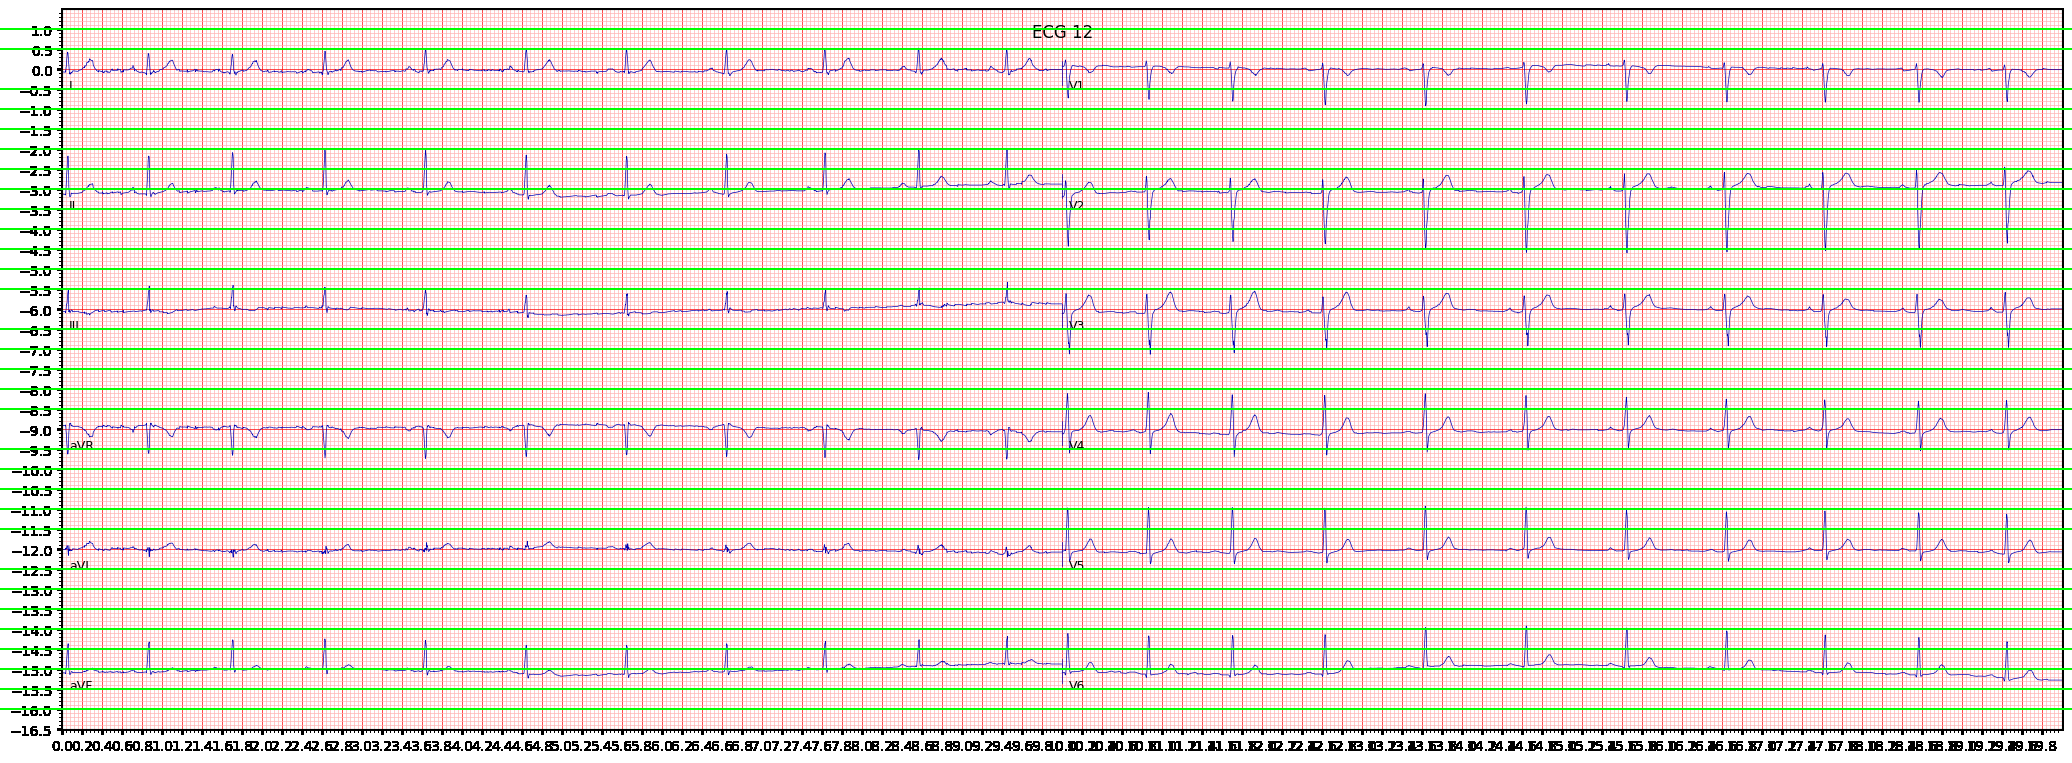
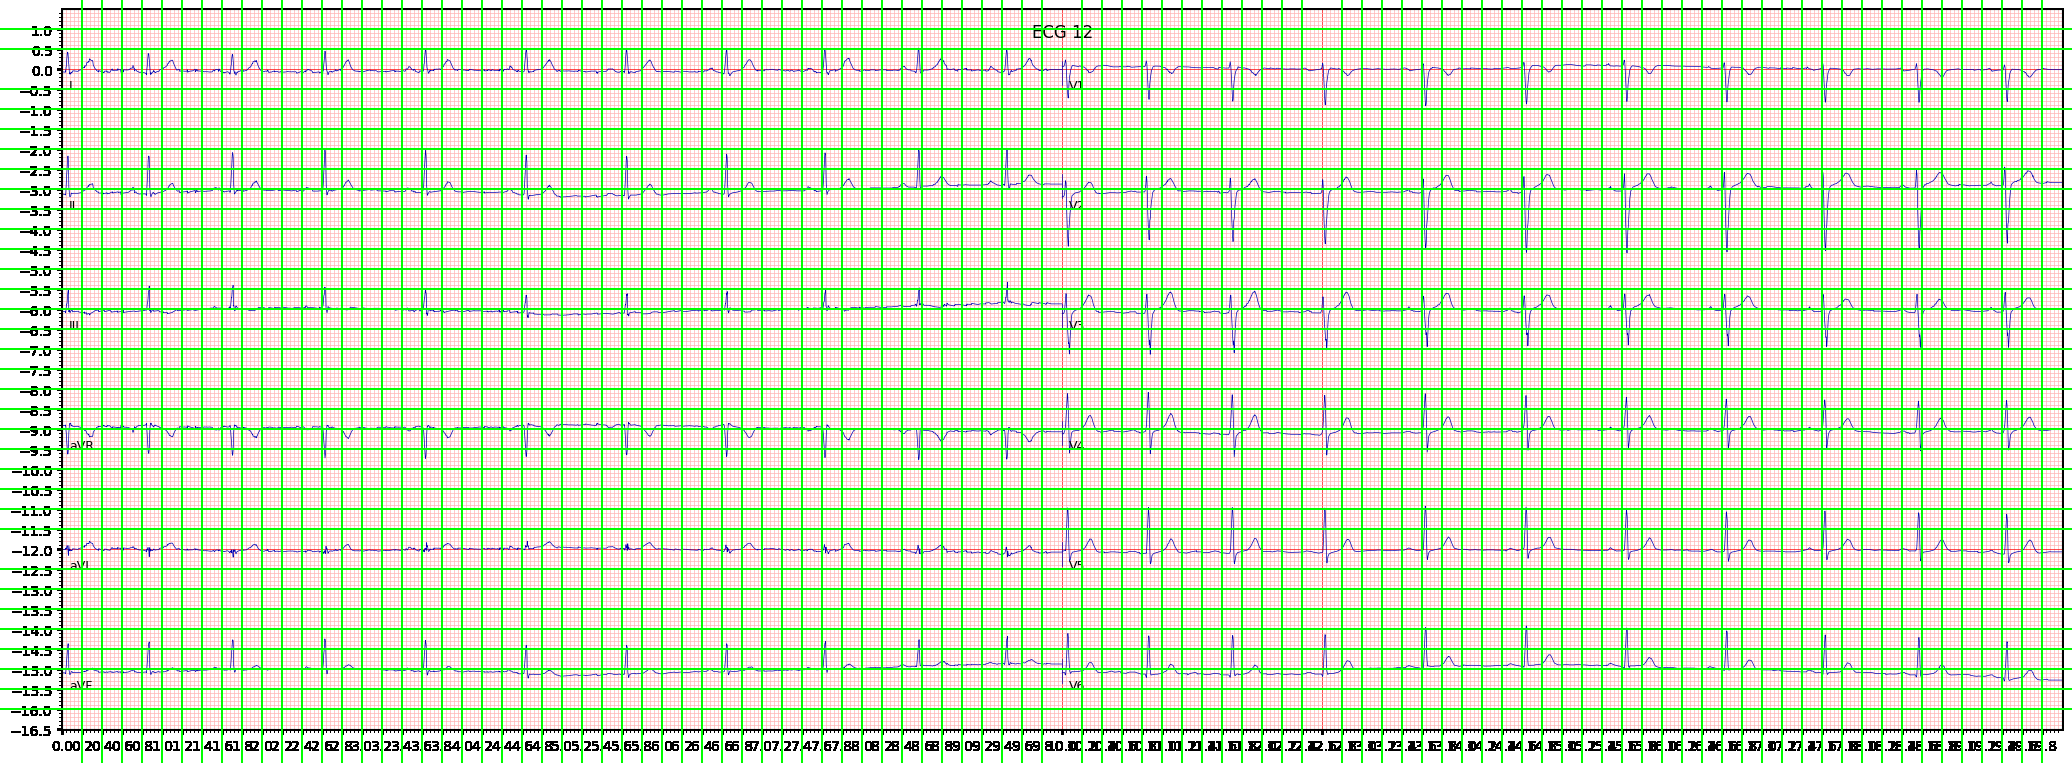
poprawa obliczania px na kratkę

Changed region(s): [[0.0309, 0.0, 0.9884, 1.0]]

diff --git a/src/main/java/org/example/ImageProcessor.java b/src/main/java/org/example/ImageProcessor.java
@@ -25,14 +25,14 @@ public class ImageProcessor {
     /**
      * Główna metoda przetwarzająca:
      *  - Wczytuje bajty PNG -> BufferedImage
+     *  - Wykryqwa ilość px na kratkę małą
      *  - Binaryzacja -> boolean[][] (+ warunek r<150... => false)
      *  - Usuwanie samotnych pikseli
      *  - Odcinanie lewego marginesu
-     *  - Szukanie 7 bloków białych (>=5% wysokości), pierwszy tniemy w 70%, ostatni w 30%, środkowe w 50%
+     *  - Szukanie 7 bloków białych w poziomie, żeby pociąć na 6 linii
      *  - Pionowa linia -> środek (width/2)
-     *  - Cięcie na 8×2 segmentów (lub fallback)
-     *  - Zapis debug_output.png z czerwoną siatką
-     *  - Zwraca listę obiektów CompressedBitmap (zamiast JSON String!)
+     *  - Cięcie na 8×2 segmentów (6x2 to EKG) i górny oraz dolny margines
+     *  - Zwraca listę obiektów CompressedBitmap
      */
     public List<CompressedBitmap> processImage(BufferedImage input) throws IOException {
         if (input == null) {
@@ -42,22 +42,21 @@ public class ImageProcessor {
         int origWidth = input.getWidth();
         int origHeight = input.getHeight();
 
-        // W metodzie processImage, przed binaryzacją (po sprawdzeniu input != null):
-
-// --- Wykrywanie czerwonych linii (85% pikseli) ---
+        // 1. Wykrywanie ilości px na kratkę małą (1/5 px na kratkę dużą)
         List<Integer> horizontalRedLines = new ArrayList<>();
         List<Integer> verticalRedLines = new ArrayList<>();
         int redThreshold = 200;   // Początkowy próg dla kanału R
         int greenBlueThreshold = 100; // Maksymalna wartość dla kanałów G i B
-        int requiredPercentage = 80; // Wymagany % czerwonych pikseli
+        int requiredPercentage = 70; // Wymagany % czerwonych pikseli
         int attempts = 0;
-        boolean linesDetected = false;
+        boolean vlinesDetected = false;
+        boolean hlinesDetected = false;
 
         do {
             horizontalRedLines.clear();
             verticalRedLines.clear();
 
-            // Wykrywanie poziomych linii (sprawdzaj każdy wiersz)
+            // Wykrywanie poziomych linii
             for (int y = 0; y < origHeight; y++) {
                 int redPixels = 0;
                 for (int x = 0; x < origWidth; x++) {
@@ -72,7 +71,7 @@ public class ImageProcessor {
                 }
             }
 
-            // Wykrywanie pionowych linii (sprawdzaj każdą kolumnę)
+            // Wykrywanie pionowych linii
             for (int x = 0; x < origWidth; x++) {
                 int redPixels = 0;
                 for (int y = 0; y < origHeight; y++) {
@@ -87,19 +86,27 @@ public class ImageProcessor {
                 }
             }
 
-            // Dostosuj próg czerwieni, aby liczba linii mieściła się w 30-40
-            if (horizontalRedLines.size() < 30) {
-                redThreshold = Math.max(0, redThreshold - 5); // Zmniejsz próg R
-            } else if (horizontalRedLines.size() > 40) {
-                redThreshold = Math.min(255, redThreshold + 5); // Zwiększ próg R
+            // Dostosowanie progu czerwieni, aby liczba linii mieściła się w zakresie
+            if (verticalRedLines.size() < 80) {
+                redThreshold = Math.max(0, redThreshold - 5);
+            } else if (verticalRedLines.size() > 130) {
+                redThreshold = Math.min(255, redThreshold + 5);
             } else {
-                linesDetected = true;
+                vlinesDetected = true;
+            }
+
+            if (horizontalRedLines.size() < 30) {
+                redThreshold = Math.max(0, redThreshold - 5);
+            } else if (horizontalRedLines.size() > 60) {
+                redThreshold = Math.min(255, redThreshold + 5);
+            } else {
+                hlinesDetected = true;
             }
 
             attempts++;
-        } while (!linesDetected && attempts < 20);
+        } while ((!vlinesDetected || !hlinesDetected) && attempts < 20 && !vlinesDetected);
 
-// Zaznacz linie na obrazie i zapisz
+        // Zaznacz linie na obrazie i zapisz
         BufferedImage linesImage = copyBufferedImage(input);
         Graphics2D g = linesImage.createGraphics();
         g.setColor(Color.GREEN);
@@ -114,17 +121,13 @@ public class ImageProcessor {
         g.dispose();
         ImageIO.write(linesImage, "png", new File("received-lines.png"));
 
-        // W metodzie processImage, po wykryciu linii i przed binaryzacją:
         int minHorizontalGap = calculateMinGap(horizontalRedLines);
         int minVerticalGap = calculateMinGap(verticalRedLines);
-
-        int bigPx = Math.max(minHorizontalGap, minVerticalGap);
-        if (bigPx <= 0) bigPx = 1; // Zabezpieczenie przed zerem
-        int smallPx = 1000000 * bigPx / 5;
-
+        if (minHorizontalGap <= 0) minHorizontalGap = 1000;
+        if (minVerticalGap <= 0) minVerticalGap = 1000;
+        int bigPx = Math.min(minHorizontalGap, minVerticalGap);
+        int smallPx = 1000000 * bigPx / 5; // razy 1M, żeby wysłać jako int
         System.out.println("Px na kratkę: " + (double)smallPx/1000000.0);
-
-// --- Koniec modyfikacji ---
 
         // 2. Binaryzacja + usuwanie samotnych pikseli
         boolean[][] matrix = new boolean[origHeight][origWidth];
@@ -170,7 +173,7 @@ public class ImageProcessor {
         // 5. Pionowa linia w samym środku
         int vLine = width / 2;
 
-        // 6. Tniemy na 8×2 (lub fallback)
+        // 6. Tniemy na 8×2
         List<CompressedBitmap> resultList;
         if (!fallback) {
             resultList = cutIntoSegments(matrix, hLines, vLine, smallPx);
@@ -186,7 +189,7 @@ public class ImageProcessor {
 
         return resultList;
     }
-    // -------------------------------------------------------------------------
+
     private boolean[][] removeLonelyPixels(boolean[][] matrix) {
         int h = matrix.length, w = matrix[0].length;
         boolean[][] result = new boolean[h][w];
@@ -245,8 +248,7 @@ public class ImageProcessor {
         return result;
     }
 
-    // -------------------------------------------------------------------------
-    // Znajdowanie 7 linii => 8 segmentów
+    // Znajdowanie 7 linii w poziomie - cięcie na 8 fragmentów (w tym 2 to marginesy)
     private List<Integer> find7HorizontalLines(boolean[][] matrix) {
         int h = matrix.length;
         int w = matrix[0].length;
@@ -255,7 +257,7 @@ public class ImageProcessor {
         List<WhiteBlock> blocks = null;
 
         // Zwiększamy minimumPer co 0.01, aż dokładnie 7 bloków zostanie wykrytych
-        while (minimumPer <= 1.0) { // górna granica – w razie czego
+        while (minimumPer <= 1.0) {
             double minBlockHeight = minimumPer * h;
             boolean[] isWhite = new boolean[h];
             for (int y = 0; y < h; y++) {
@@ -326,28 +328,20 @@ public class ImageProcessor {
         WhiteBlock(int s, int e) { start = s; end = e; }
     }
 
-
-    // -------------------------------------------------------------------------
-    // Tniemy 8×2 lub fallback
-    private List<CompressedBitmap> cutIntoSegments(boolean[][] matrix, List<Integer> hLines, int vLine, int smallPx) {        int h = matrix.length, w = matrix[0].length;
-
-        // Upewnij się, że hLines są posortowane
+    // Cięcie 8x2
+    private List<CompressedBitmap> cutIntoSegments(boolean[][] matrix, List<Integer> hLines, int vLine, int smallPx) {
+        int h = matrix.length, w = matrix[0].length;
         hLines.sort(Integer::compareTo);
-
-        // Budujemy granice poziome: [0, hLine1, hLine2, ..., hLine7, h]
         List<Integer> finalY = new ArrayList<>();
         finalY.add(0);
         finalY.addAll(hLines);
         finalY.add(h);
 
         int halfW = w / 2;
-        // Zbieramy segmenty osobno dla lewej i prawej kolumny
         List<boolean[][]> leftSubMatrices = new ArrayList<>();
         List<boolean[][]> rightSubMatrices = new ArrayList<>();
 
-        // Przetwarzamy tylko segmenty odpowiadające głównym wykresom EKG:
-        // pomijamy pierwszy segment (od 0 do hLine1) oraz ostatni (od hLine7 do h)
-        for (int i = 1; i < finalY.size() - 2; i++) {  // przy finalY.size()==9 => i = 1..6 (6 segmentów pionowo)
+        for (int i = 1; i < finalY.size() - 2; i++) {
             int y1 = finalY.get(i);
             int y2 = finalY.get(i + 1);
             int segH = y2 - y1;
@@ -363,7 +357,7 @@ public class ImageProcessor {
             rightSubMatrices.add(rightSub);
         }
 
-        // Łączymy segmenty – najpierw lewa kolumna (I, II, III, aVR, aVL, aVF), potem prawa (V1, V2, V3, V4, V5, V6)
+        // Najpierw lewa kolumna (I, II, III, aVR, aVL, aVF), potem prawa (V1, V2, V3, V4, V5, V6)
         List<boolean[][]> subMatrices = new ArrayList<>();
         subMatrices.addAll(leftSubMatrices);
         subMatrices.addAll(rightSubMatrices);
@@ -372,7 +366,7 @@ public class ImageProcessor {
         int minH = subMatrices.stream().mapToInt(m -> m.length).min().orElse(0);
         int minW = subMatrices.stream().mapToInt(m -> m[0].length).min().orElse(0);
 
-        // Przycinamy każdy segment do (minH x minW), a następnie usuwamy 5% z lewej i prawej (ze względu na artefakty)
+        // Przycinamy każdy segment do (minH x minW), a następnie usuwamy 5% z lewej i prawej
         List<CompressedBitmap> list = new ArrayList<>();
         for (boolean[][] sub : subMatrices) {
             boolean[][] trimmed = trimToSize(sub, minH, minW);
@@ -391,13 +385,11 @@ public class ImageProcessor {
 
     private List<CompressedBitmap> cutEqually(boolean[][] matrix, int smallPx) {
         int h = matrix.length, w = matrix[0].length;
-        int rowH = h / 8;  // oryginalny podział na 8 rzędów
+        int rowH = h / 8;
         int colW = w / 2;
-        // Zbieramy segmenty oddzielnie dla lewej i prawej kolumny
         List<boolean[][]> leftSubMatrices = new ArrayList<>();
         List<boolean[][]> rightSubMatrices = new ArrayList<>();
 
-        // Pomijamy pierwszy (row = 0) i ostatni (row = 7) rząd – pozostają 6 rzędów (główne wykresy)
         for (int row = 1; row < 7; row++) {
             int y1 = row * rowH;
             int y2 = (row + 1) * rowH;
@@ -414,12 +406,10 @@ public class ImageProcessor {
             rightSubMatrices.add(rightSub);
         }
 
-        // Łączymy – najpierw segmenty z lewej kolumny, potem te z prawej
         List<boolean[][]> subMatrices = new ArrayList<>();
         subMatrices.addAll(leftSubMatrices);
         subMatrices.addAll(rightSubMatrices);
 
-        // Wyznaczamy minimalne wymiary spośród 12 głównych wykresów EKG
         int minH = subMatrices.stream().mapToInt(m -> m.length).min().orElse(0);
         int minW = subMatrices.stream().mapToInt(m -> m[0].length).min().orElse(0);
 
@@ -439,8 +429,6 @@ public class ImageProcessor {
         return list;
     }
 
-    // -------------------------------------------------------------------------
-    // Kompresja boole[][] -> int[]
     private int[] compressBooleanMatrix(boolean[][] subMatrix) {
         int hh=subMatrix.length;
         int ww=subMatrix[0].length;
@@ -469,8 +457,6 @@ public class ImageProcessor {
         return result;
     }
 
-    // -------------------------------------------------------------------------
-    // Rysowanie debug_output.png
     private void drawDebugLines(BufferedImage img,
                                 List<Integer> hLines,
                                 int vLine,

diff --git a/src/main/java/org/example/BinaryWebSocketHandlerMP.java b/src/main/java/org/example/BinaryWebSocketHandlerMP.java
@@ -42,7 +42,7 @@ public class BinaryWebSocketHandlerMP extends BinaryWebSocketHandler {
         ByteBuffer buffer = message.getPayload();
 
         if (!state.dimensionsReceived) {
-            // Pierwszy fragment zawiera wymiary
+            // Pierwszy fragment - wymiary
             state.width = buffer.getInt();
             state.height = buffer.getInt();
             state.dimensionsReceived = true;
@@ -68,21 +68,18 @@ public class BinaryWebSocketHandlerMP extends BinaryWebSocketHandler {
             } catch (IOException e) {
                 System.err.println("Błąd przetwarzania obrazu: " + e.getMessage());
             }
-            System.out.println("Przetworzono");
+            System.out.println("Przetworzono.");
         }
     }
 
     private void processCompleteImage(WebSocketSession session, SessionState state) throws IOException {
-        // Konwersja bufora na obraz
         byte[] imageBytes = state.imageBuffer.toByteArray();
         BufferedImage receivedImage = new BufferedImage(state.width, state.height, BufferedImage.TYPE_INT_RGB);
-
-        // Wypełnij obraz danymi RGB
         ByteBuffer byteBuffer = ByteBuffer.wrap(imageBytes);
         int[] pixels = new int[imageBytes.length / 4];
         byteBuffer.asIntBuffer().get(pixels);
 
-        // Zamiana kanałów czerwonego i niebieskiego
+        // Zamiana kanałów czerwonego i niebieskiego z kodowania mojego RGB na normalne BGR
         for (int i = 0; i < pixels.length; i++) {
             int pixel = pixels[i];
             int red = (pixel >> 16) & 0xff;
@@ -96,7 +93,7 @@ public class BinaryWebSocketHandlerMP extends BinaryWebSocketHandler {
         // Zapis oryginalnego obrazu jako received.png
         ImageIO.write(receivedImage, "png", new File("received.png"));
 
-        // Przetwarzanie obrazu -> uzyskanie listy skompresowanych bitmap
+        // Przetwarzanie obrazu - uzyskanie listy 12 skompresowanych bitmap
         List<ImageProcessor.CompressedBitmap> compressedBitmaps = imageProcessor.processImage(receivedImage);
         if (compressedBitmaps.isEmpty()) {
             System.err.println("Błąd: Przetwarzanie obrazu nie zwróciło wyników.");
@@ -104,6 +101,7 @@ public class BinaryWebSocketHandlerMP extends BinaryWebSocketHandler {
         }
 
         int numImages = compressedBitmaps.size();
+        // ilość px na kratkę + szer + wys + n(data.length) = 4
         int totalDataSize = 1 + numImages * 4;
 
         for (ImageProcessor.CompressedBitmap cb : compressedBitmaps) {
@@ -135,7 +133,6 @@ public class BinaryWebSocketHandlerMP extends BinaryWebSocketHandler {
                 System.err.println("Nie udało się zapisać wykresu: " + outputFile.getName());
             }
 
-            // Pakowanie danych obrazu do bufora
             compressedData[index++] = cb.smallPx;
             compressedData[index++] = cb.width;
             compressedData[index++] = cb.height;
@@ -145,7 +142,7 @@ public class BinaryWebSocketHandlerMP extends BinaryWebSocketHandler {
         }
 
         // Wysłanie skompresowanych danych do klienta
-        ByteBuffer responseBuffer = ByteBuffer.allocate(compressedData.length * 4);
+        ByteBuffer responseBuffer = ByteBuffer.allocate(compressedData.length * 4); // int to 4 bajty
         IntBuffer intBuffer = responseBuffer.asIntBuffer();
         intBuffer.put(compressedData);
         session.sendMessage(new BinaryMessage(responseBuffer.array()));

diff --git a/src/main/java/org/example/WebSocketConfig.java b/src/main/java/org/example/WebSocketConfig.java
@@ -27,8 +27,8 @@ public class WebSocketConfig implements WebSocketConfigurer, WebSocketMessageBro
 
     @Override
     public void configureWebSocketTransport(WebSocketTransportRegistration registration) {
-        registration.setMessageSizeLimit(20 * 1024 * 1024); // 20MB
-        registration.setSendBufferSizeLimit(20 * 1024 * 1024); // 20MB
+        registration.setMessageSizeLimit(20 * 1024 * 1024); // 20MB na wiadomość
+        registration.setSendBufferSizeLimit(20 * 1024 * 1024); // 20MB na wiadomość
         registration.setTimeToFirstMessage(5000); // 5s na pierwszą wiadomość
     }
 }

diff --git a/src/main/java/org/example/BinaryzacjaApplication.java b/src/main/java/org/example/BinaryzacjaApplication.java
@@ -3,12 +3,8 @@ package org.example;
 import org.springframework.boot.SpringApplication;
 import org.springframework.boot.autoconfigure.SpringBootApplication;
 
-/**
- * Główna klasa startowa aplikacji Spring Boot.
- */
 @SpringBootApplication
 public class BinaryzacjaApplication {
-
     public static void main(String[] args) {
         SpringApplication.run(BinaryzacjaApplication.class, args);
     }
